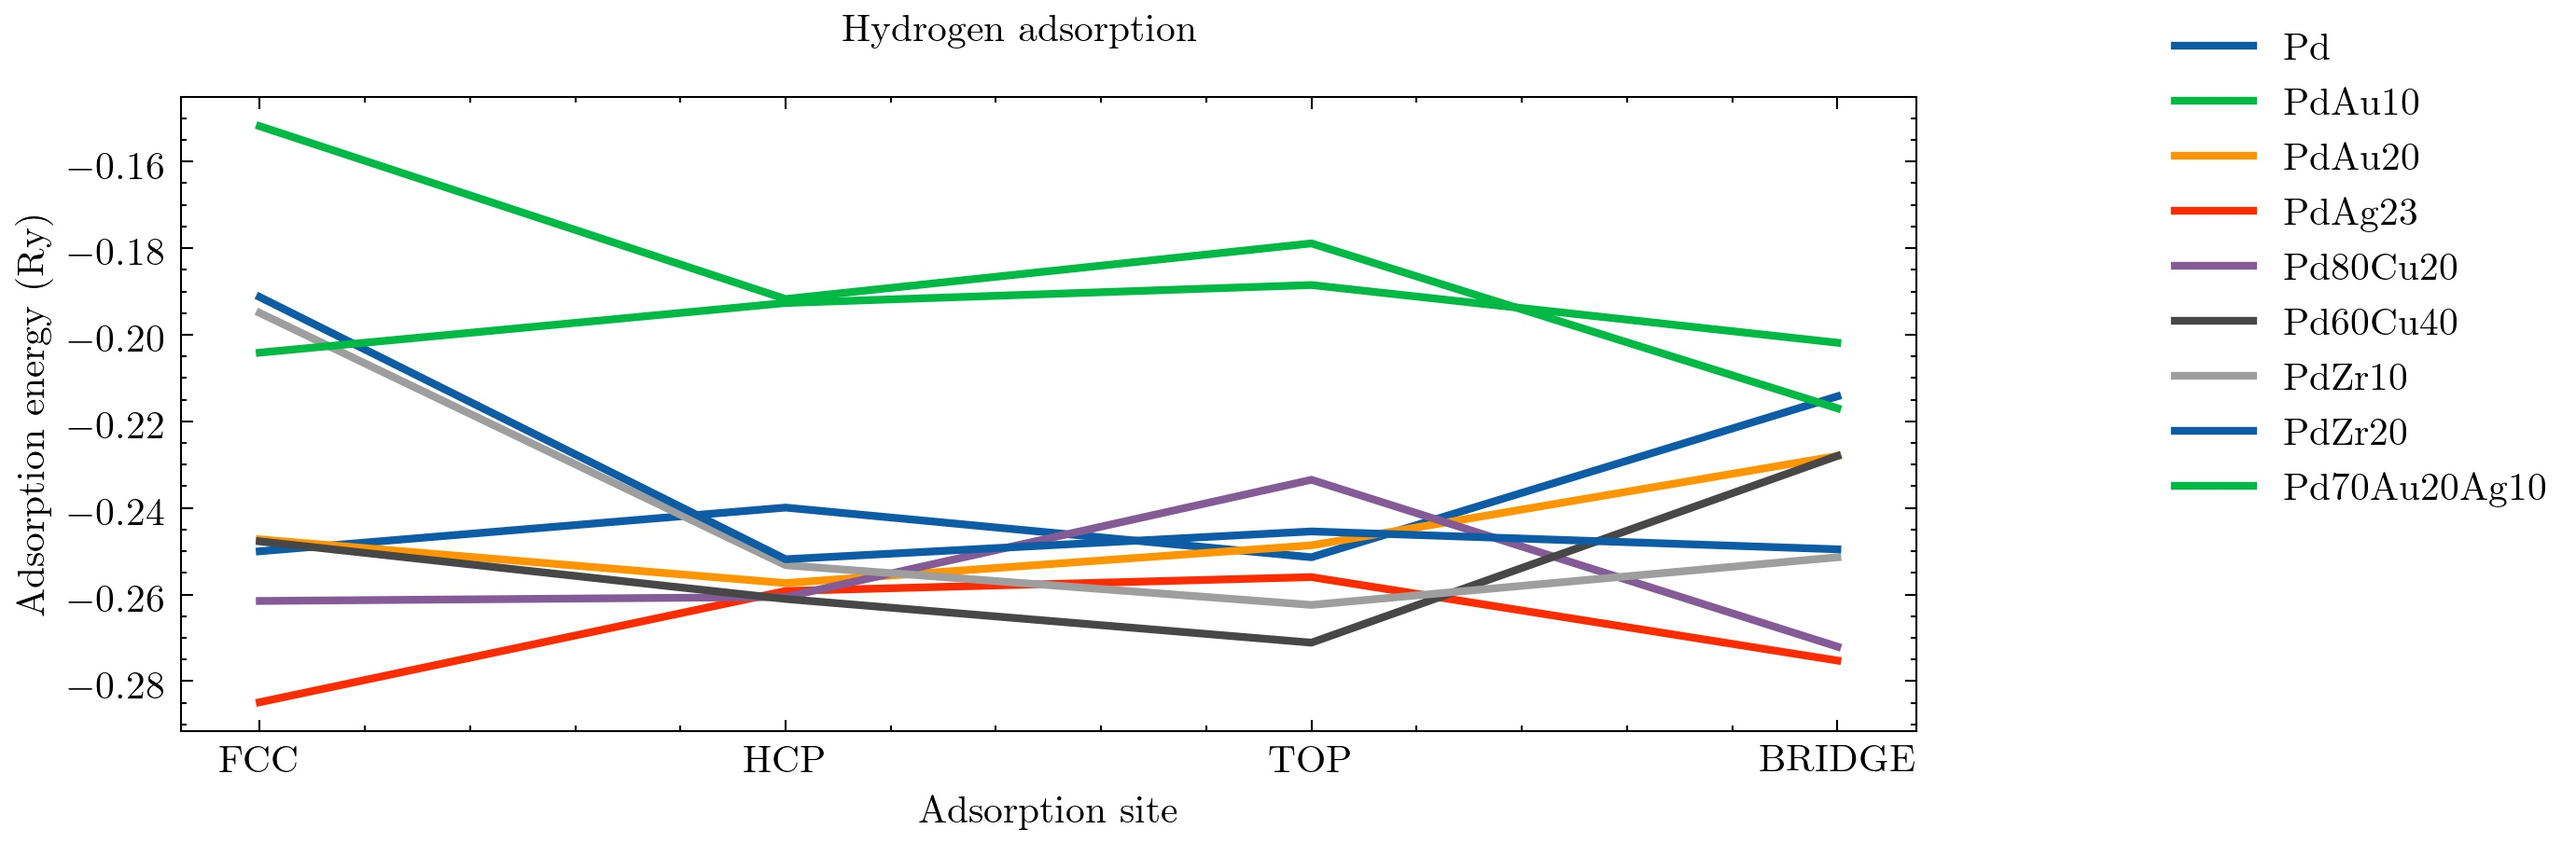
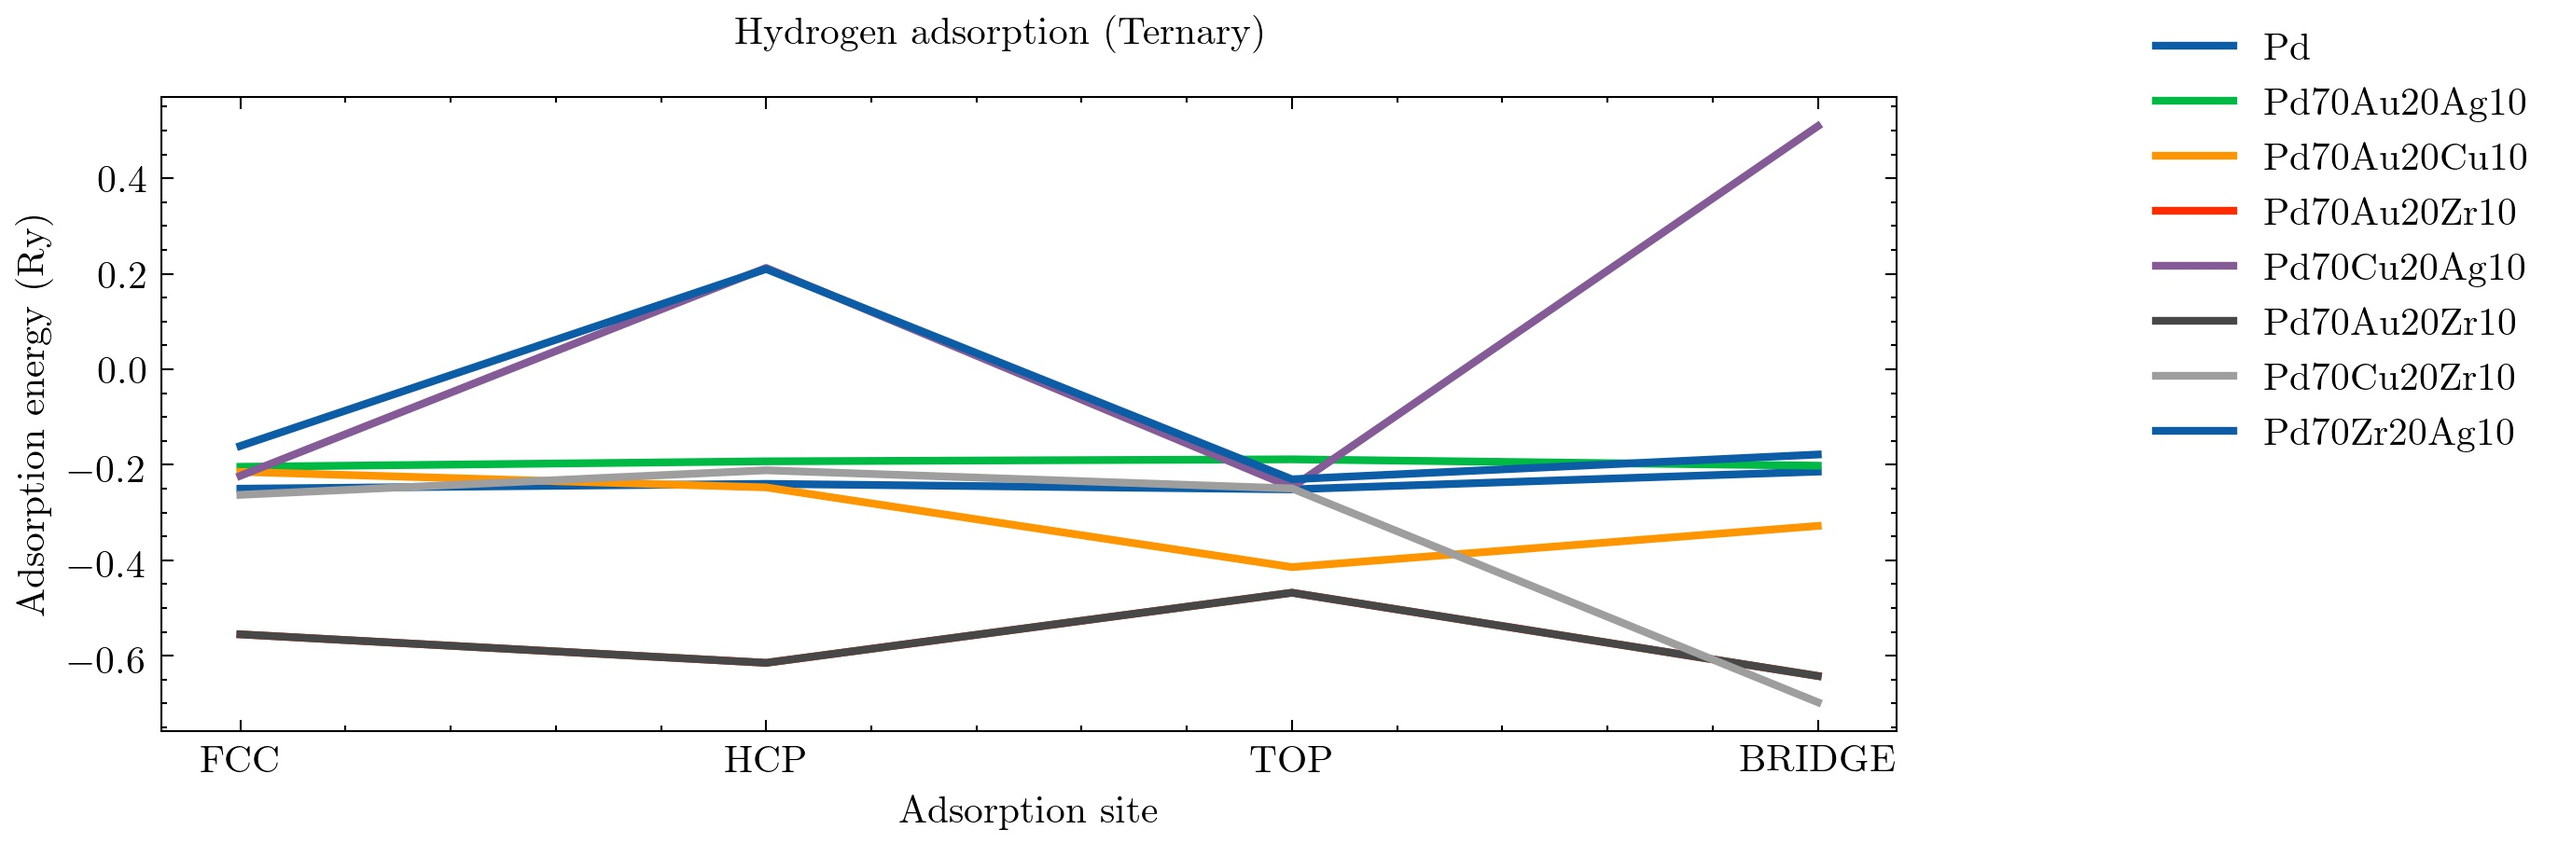
Cleaned dataset for H2

diff --git a/Chapter3/data/analysis.py b/Chapter3/data/analysis.py
@@ -32,6 +32,13 @@ PdAu20 = df[isPdAu20]
 PdZr10 = df[isPdZr10]
 PdZr20 = df[isPdZr20]
 Pd70Au20Ag10 = df[isPd70Au20Ag10]
+Pd70Au20Cu10 = df[ df['Metal'] == 'Pd70Au20Cu10']
+Pd70Au20Zr10 = df[ df['Metal'] == 'Pd70Au20Zr10']
+Pd70Cu20Ag10 = df[ df['Metal'] == 'Pd70Cu20Ag10']
+Pd70Au20Zr10 = df[ df['Metal'] == 'Pd70Au20Zr10']
+Pd70Cu20Zr10 = df[ df['Metal'] == 'Pd70Cu20Zr10']
+Pd70Zr20Ag10 = df[ df['Metal'] == 'Pd70Zr20Ag10']
+
 
 
 
@@ -57,17 +64,38 @@ with plt.style.context(['science']):
     ax.plot(Pd60Cu40['Site'], Pd60Cu40['adsry'], label='Pd60Cu40', linewidth=2)
     ax.plot(PdZr10['Site'], PdZr10['adsry'], label='PdZr10', linewidth=2)
     ax.plot(PdZr20['Site'], PdZr20['adsry'], label='PdZr20', linewidth=2)
-    ax.plot(Pd70Au20Ag10['Site'], Pd70Au20Ag10['adsry'], label='Pd70Au20Ag10', linewidth=2)
-
 
     ax.set(xlabel="Adsorption site")
     ax.set(ylabel="Adsorption energy (Ry)")
-    fig.suptitle('Hydrogen adsorption', fontsize=10)
+    fig.suptitle('Hydrogen adsorption (Binary)', fontsize=10)
     ax.autoscale(tight=False)
     plt.legend(bbox_to_anchor=(1, 1),
     bbox_transform=plt.gcf().transFigure)
     fig.show()
     fig.savefig('h2.jpg', dpi=300)
+
+with plt.style.context(['science']):
+    fig, ax = plt.subplots(figsize=(8,3))
+    ax.plot(PD['Site'], PD['adsry'], label='Pd', linewidth=2)
+    
+    ax.plot(Pd70Au20Ag10['Site'], Pd70Au20Ag10['adsry'], label='Pd70Au20Ag10', linewidth=2)
+    ax.plot(Pd70Au20Cu10['Site'], Pd70Au20Cu10['adsry'], label='Pd70Au20Cu10', linewidth=2)
+    ax.plot(Pd70Au20Zr10['Site'], Pd70Au20Zr10['adsry'], label='Pd70Au20Zr10', linewidth=2)
+    ax.plot(Pd70Cu20Ag10['Site'], Pd70Cu20Ag10['adsry'], label='Pd70Cu20Ag10', linewidth=2)
+    ax.plot(Pd70Au20Zr10['Site'], Pd70Au20Zr10['adsry'], label='Pd70Au20Zr10', linewidth=2)
+    ax.plot(Pd70Cu20Zr10['Site'], Pd70Cu20Zr10['adsry'], label='Pd70Cu20Zr10', linewidth=2)
+    ax.plot(Pd70Zr20Ag10['Site'], Pd70Zr20Ag10['adsry'], label='Pd70Zr20Ag10', linewidth=2)
+
+    ax.set(xlabel="Adsorption site")
+    ax.set(ylabel="Adsorption energy (Ry)")
+    fig.suptitle('Hydrogen adsorption (Ternary)', fontsize=10)
+    ax.autoscale(tight=False)
+    plt.legend(bbox_to_anchor=(1, 1),
+    bbox_transform=plt.gcf().transFigure)
+    fig.show()
+    fig.savefig('h2.jpg', dpi=300)
+
+
 
 # DN34
 # B543
